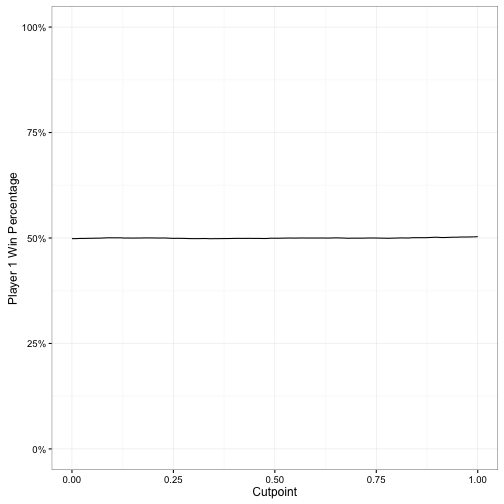
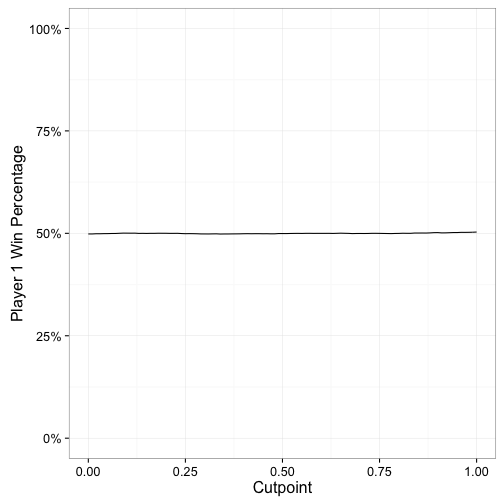
Fix plot size in game show

diff --git a/_posts/2016-03-09-can-you-win-this-hot-new-game-show.md b/_posts/2016-03-09-can-you-win-this-hot-new-game-show.md
@@ -159,7 +159,7 @@ ggplot(results_full, aes(cutpoint, win_prop)) +
   scale_y_continuous(labels = scales::percent, limits = c(0, 1)) +
   labs(x = "Cutpoint",
        y = "Player 1 Win Percentage") +
-  theme_bw()
+  theme_bw(base_size = 16)
 {% endhighlight %}
 
 ![center](/figs/2016-03-09-can-you-win-this-hot-new-game-show/cut_plot-1.png)
@@ -251,7 +251,7 @@ ggplot(cut_combo, aes(cut1, cut2, fill = p1_prop)) +
   labs(x = "Player 1 Cutpoint",
        y = "Player 2 Cutpoint",
        fill = "Player 1 Win\nPercentage") +
-  theme_bw() +
+  theme_bw(base_size = 16) +
   theme(legend.position = "bottom",
         legend.text = element_text(size = 8))
 {% endhighlight %}
